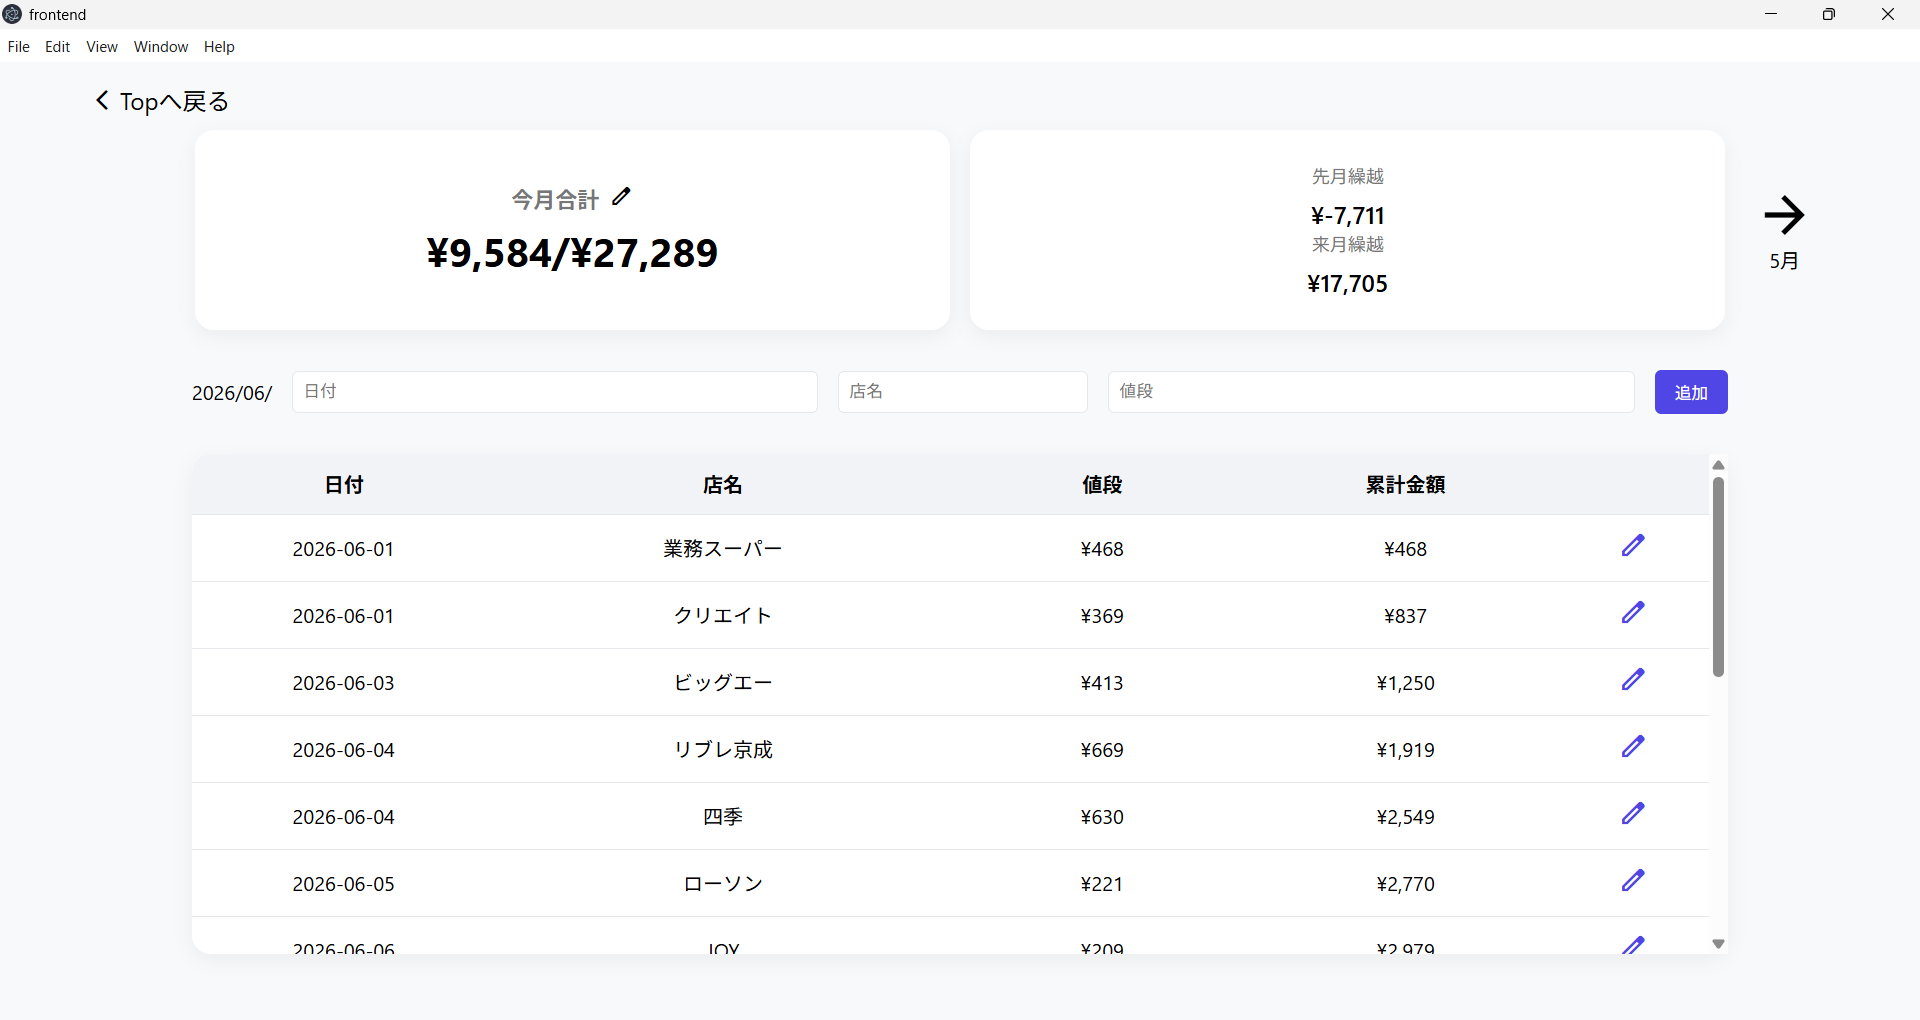
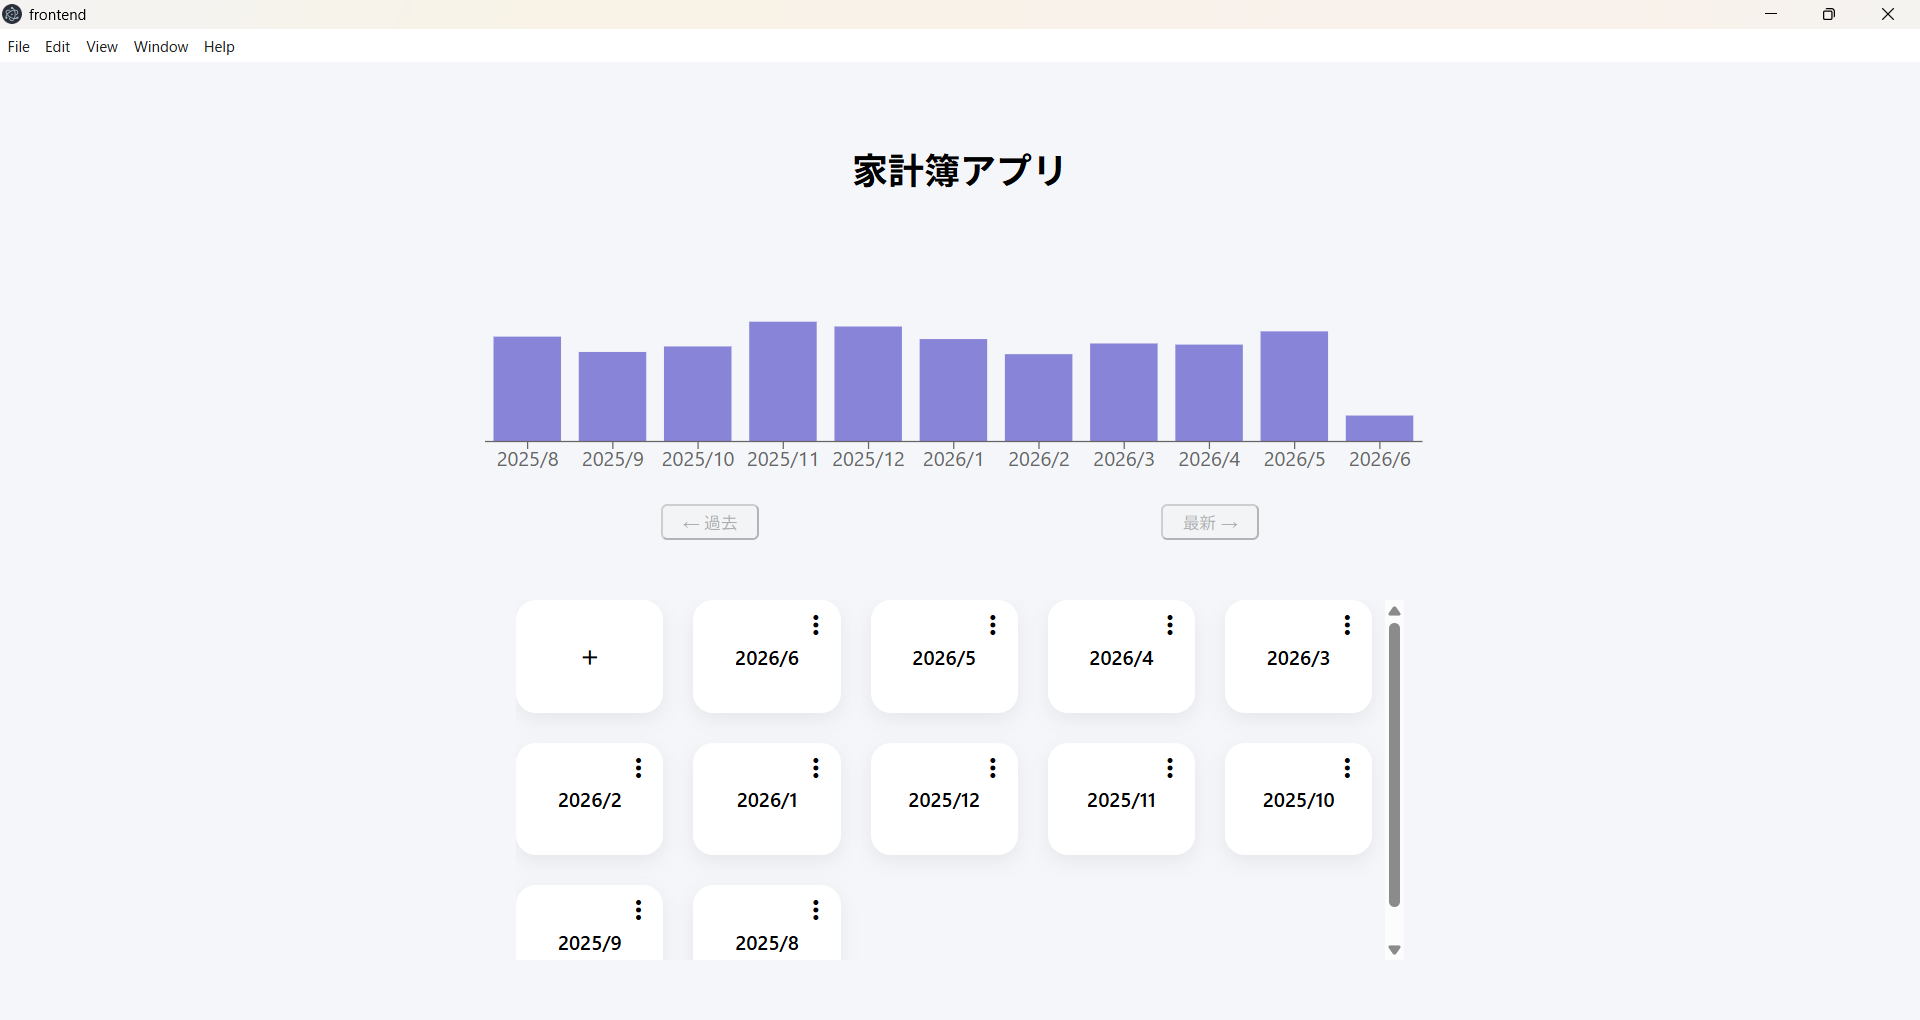
写真変えた

diff --git a/src/data/WorkData.tsx b/src/data/WorkData.tsx
@@ -254,13 +254,13 @@ export const worksData: workData[] = [
         description: [
             {
                 pageTitle: "トップ画面",
-                imgs: ["/image/work/work6.png"],
+                imgs: ["/image/work/work60.png"],
                 alt: "トップ画面",
                 description: "月ごとの支出額を棒グラフで表示し、お金の使い方を一目で確認できます。過去の記録も月単位で管理でき、支出傾向の把握に役立ちます。"
             },
             {
                 pageTitle: "支出記録画面",
-                imgs: ["/image/work/work61.png"],
+                imgs: ["/image/work/work61.png", "/image/work/work62.png"],
                 alt: "支出記録画面",
                 description: "支出内容を登録・編集・削除できる画面です。月ごとに設定した予算を超過した場合は金額を強調表示し、使い過ぎに気付きやすい設計にしています。"
             },

diff --git a/src/css/Work.css b/src/css/Work.css
@@ -27,6 +27,7 @@
   width: 100%;
   border-radius: 16px;
   object-fit: contain;
+  max-height: 30vh;
 }
 
 .workSection .works .row .work .description .workLang .tech-tags {
